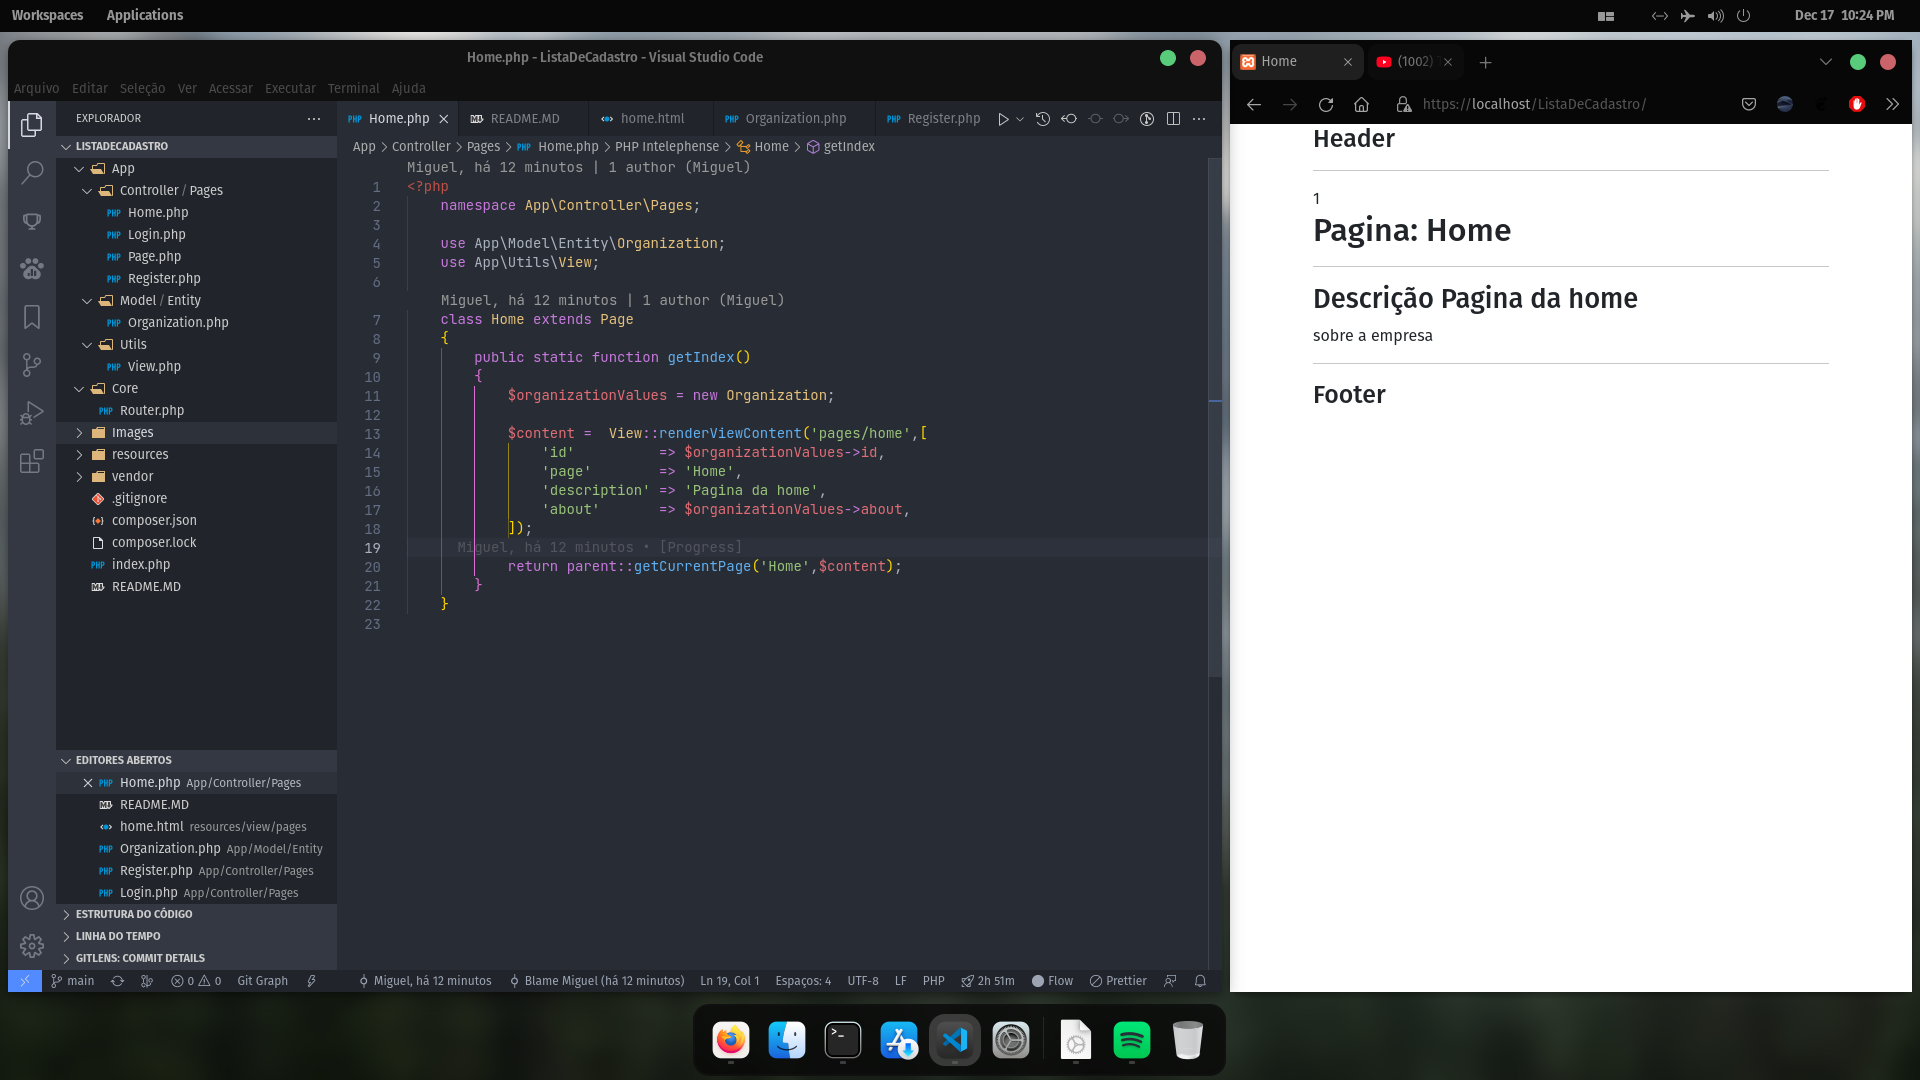
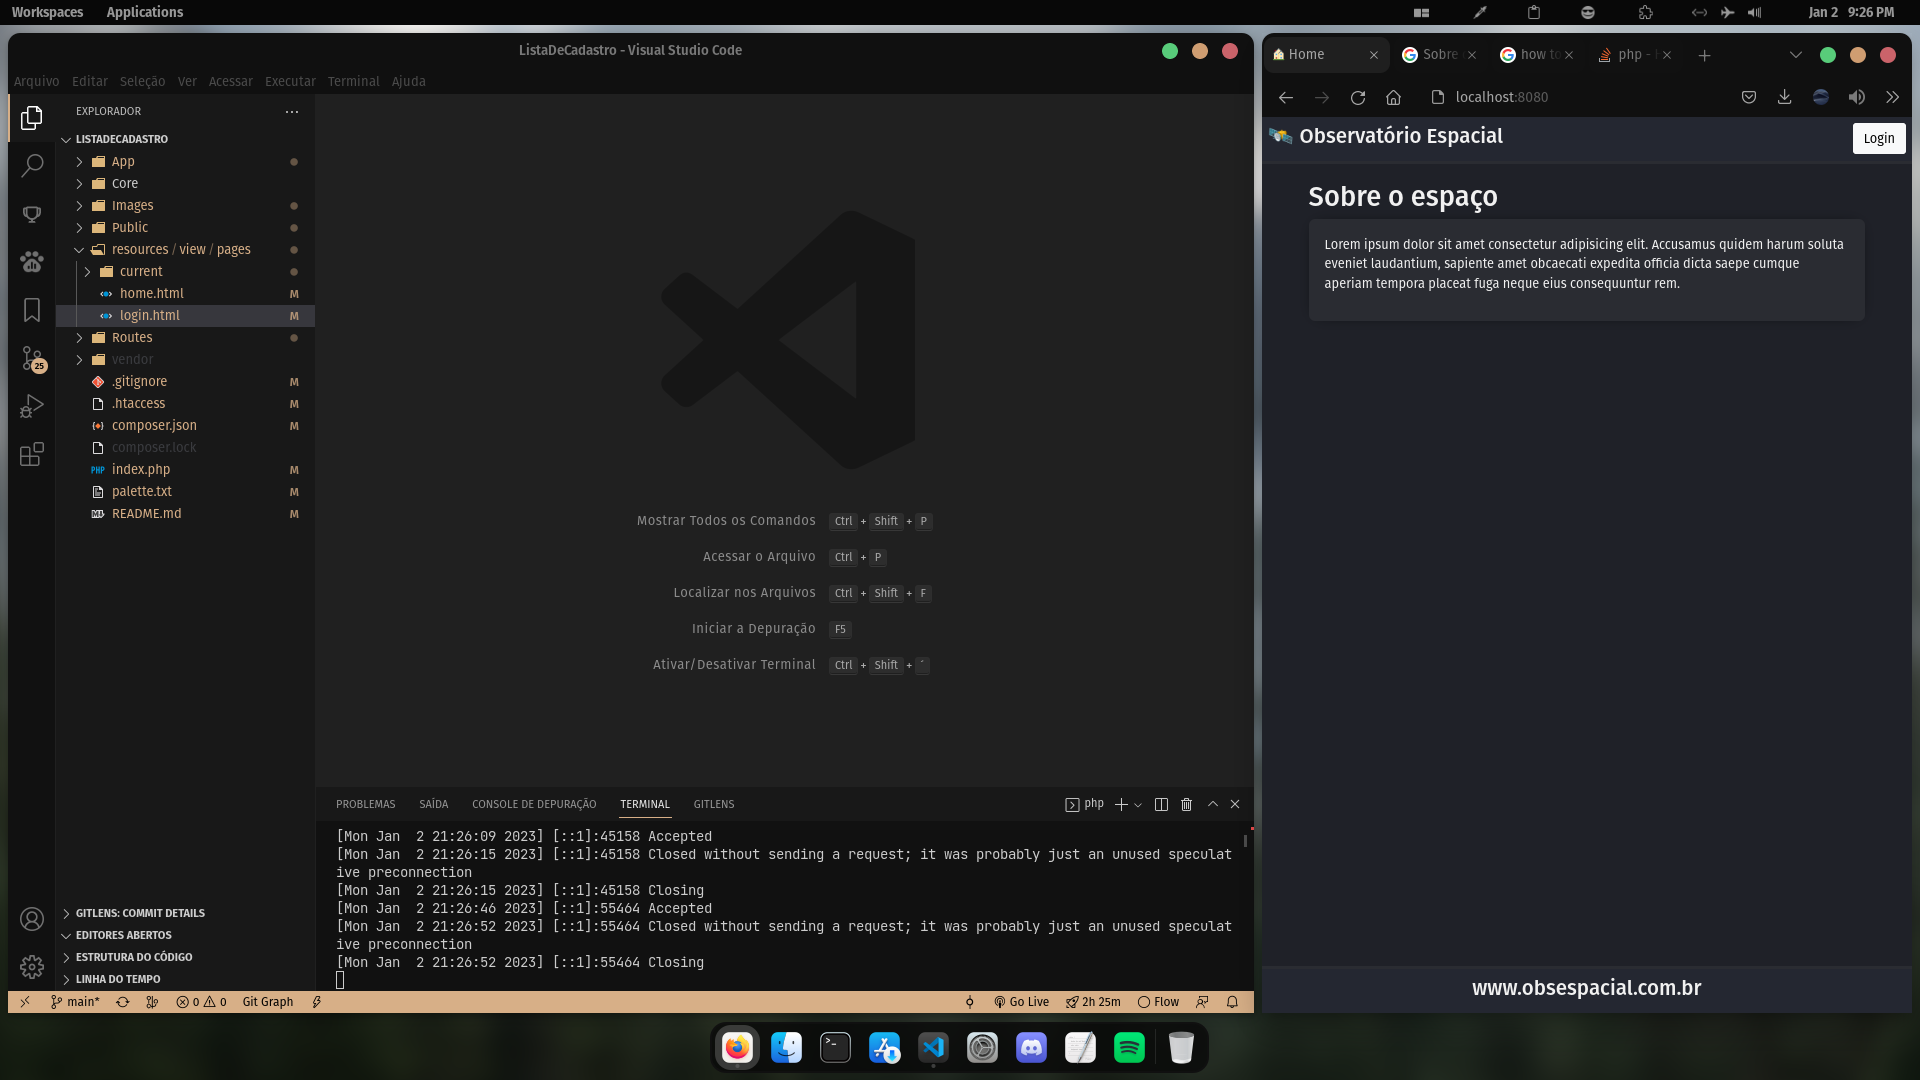
[General Fixes]

diff --git a/Public/css/login.css b/Public/css/login.css
@@ -17,7 +17,25 @@ body
 {
     color:            #f1f1f1;
     background-color: #2a2c32;
-    box-shadow: 0px 0px 20px -10px #000;
+    box-shadow:         0px 0px 20px -10px #000;
+    border-radius:      8px;
+    align-items:        center;
+    padding:            20px; 
+    display:            flex;
+    flex-direction:     column;
+    width:              400px;
+    height:             200px;    
+}
+
+.box-login input
+{
+    align-items:   center;
+    border:        none;
+    outline:       none;
+    height:        45px;
+    font-size:     18px;
     border-radius: 8px;
-    padding:       20px; 
+    padding:       20px;
+    background-color: red;
+    box-shadow: 0px 0px 20px -10px #000;
 }

diff --git a/resources/view/pages/login.html b/resources/view/pages/login.html
@@ -19,23 +19,3 @@
     
 </body>
 </html>
-
-<!-- {{id}}
-
-<h1>Pagina: {{page}}</h1>
-<hr>
-    <h2>
-        Descrição: {{description}}
-    </h2>
-{{about}}
-    <h3>
-        <a href="{{URL}}/login"><button class="btn btn-light">Login</button></a>
-    </h3>
-     -->
-
-
-<!-- {{id}}
-
-<h1>Pagina: {{page}}</h1>
-<hr>
-<h2>Descrição: {{description}}</h2> -->

diff --git a/resources/view/pages/current/header.html b/resources/view/pages/current/header.html
@@ -2,5 +2,5 @@
 
 <div class='header'>
     <a href="{{URL}}"><h3>🛰 Observatório Espacial</h3></a>
-    <a href="{{URL}}/login"><button>Login</button></a>
+    <a href="{{URL}}/login"><button type="button" class="btn btn-light">Login</button></a>
 </div>

diff --git a/Public/css/header.css b/Public/css/header.css
@@ -7,6 +7,7 @@
     padding:            8px; 
     width:              100%;
     justify-content:    space-between;
+    border-bottom:      4px solid #2a2c32;
     color:            #f1f1f1;
     background-color: #242731;
 }

diff --git a/Public/css/footer.css b/Public/css/footer.css
@@ -8,6 +8,7 @@
     padding:            8px; 
     width:              100%;
     text-align:         center;
+    border-top:         4px solid #2a2c32;
     color:            #f1f1f1;
     background-color: #242731;
 }

diff --git a/App/Controller/Pages/Login.php b/App/Controller/Pages/Login.php
@@ -13,7 +13,7 @@
             $content =  View::renderViewContent('pages/login',[
                 'id'          => $organizationValues->id,
                 'page'        => 'Login',
-                'description' => 'Pagina de login',
+                'description' => 'Página de login',
             ]);
 
             return parent::getCurrentPage('👤 Login',$content);

diff --git a/App/Model/Entity/Organization.php b/App/Model/Entity/Organization.php
@@ -8,6 +8,6 @@
 
         public $id    = 1;
         public $name  = 'Empresa';
-        public $site  = 'www.empresa.com.br';
+        public $site  = 'www.obsespacial.com.br';
         public $about = 'sobre a empresa';
     }
